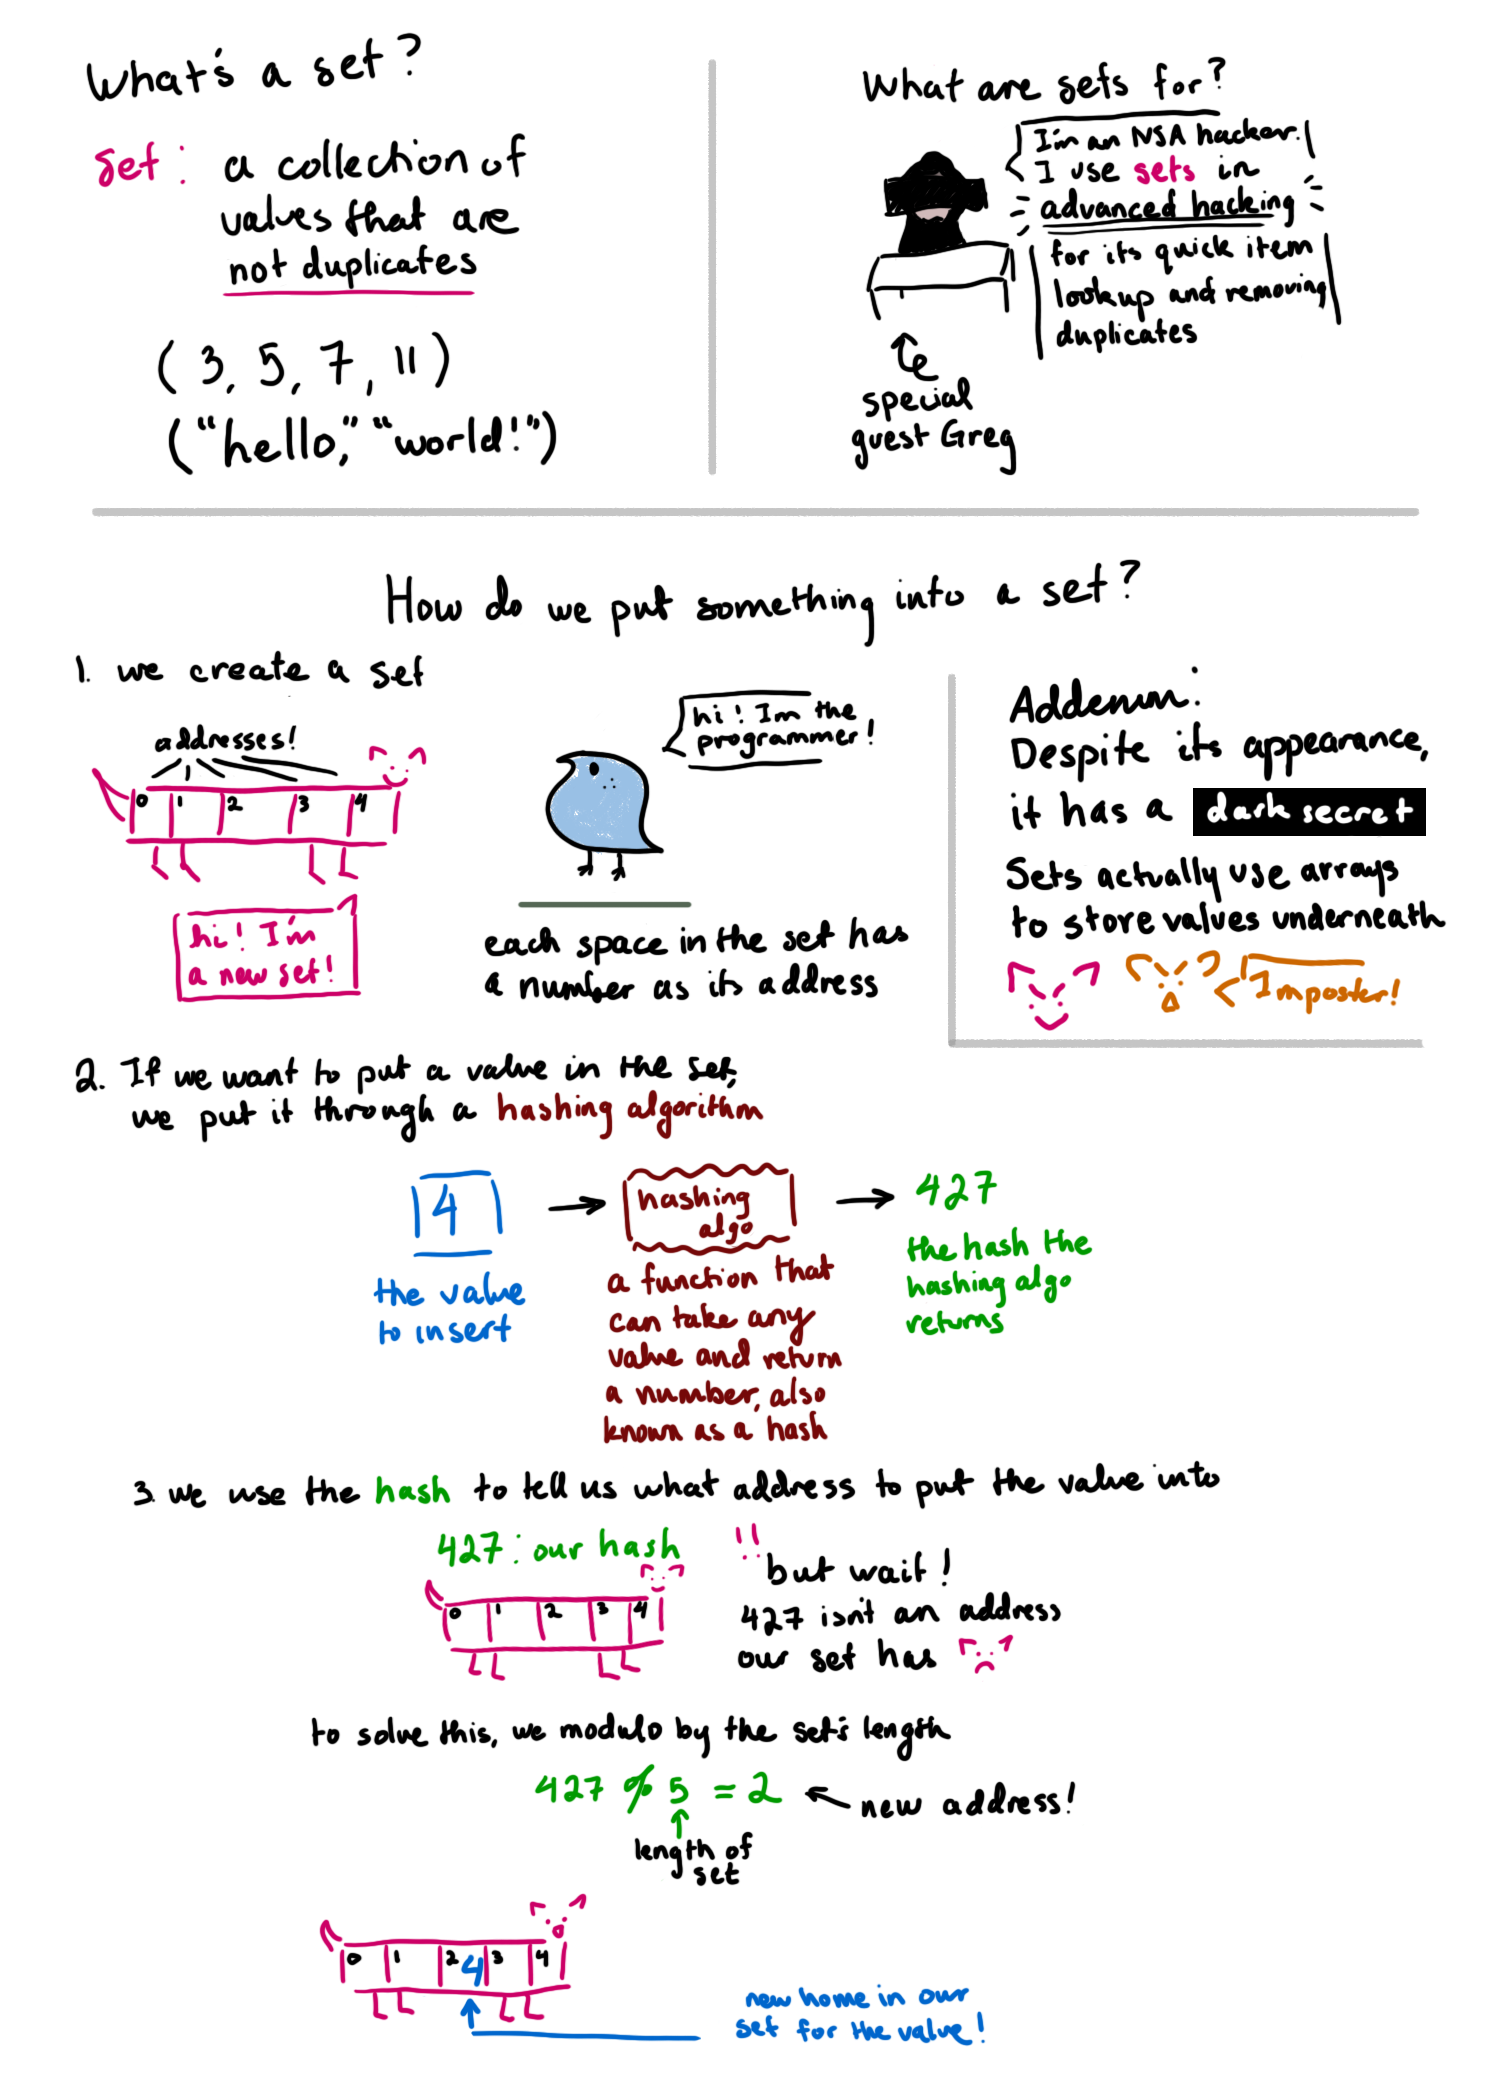
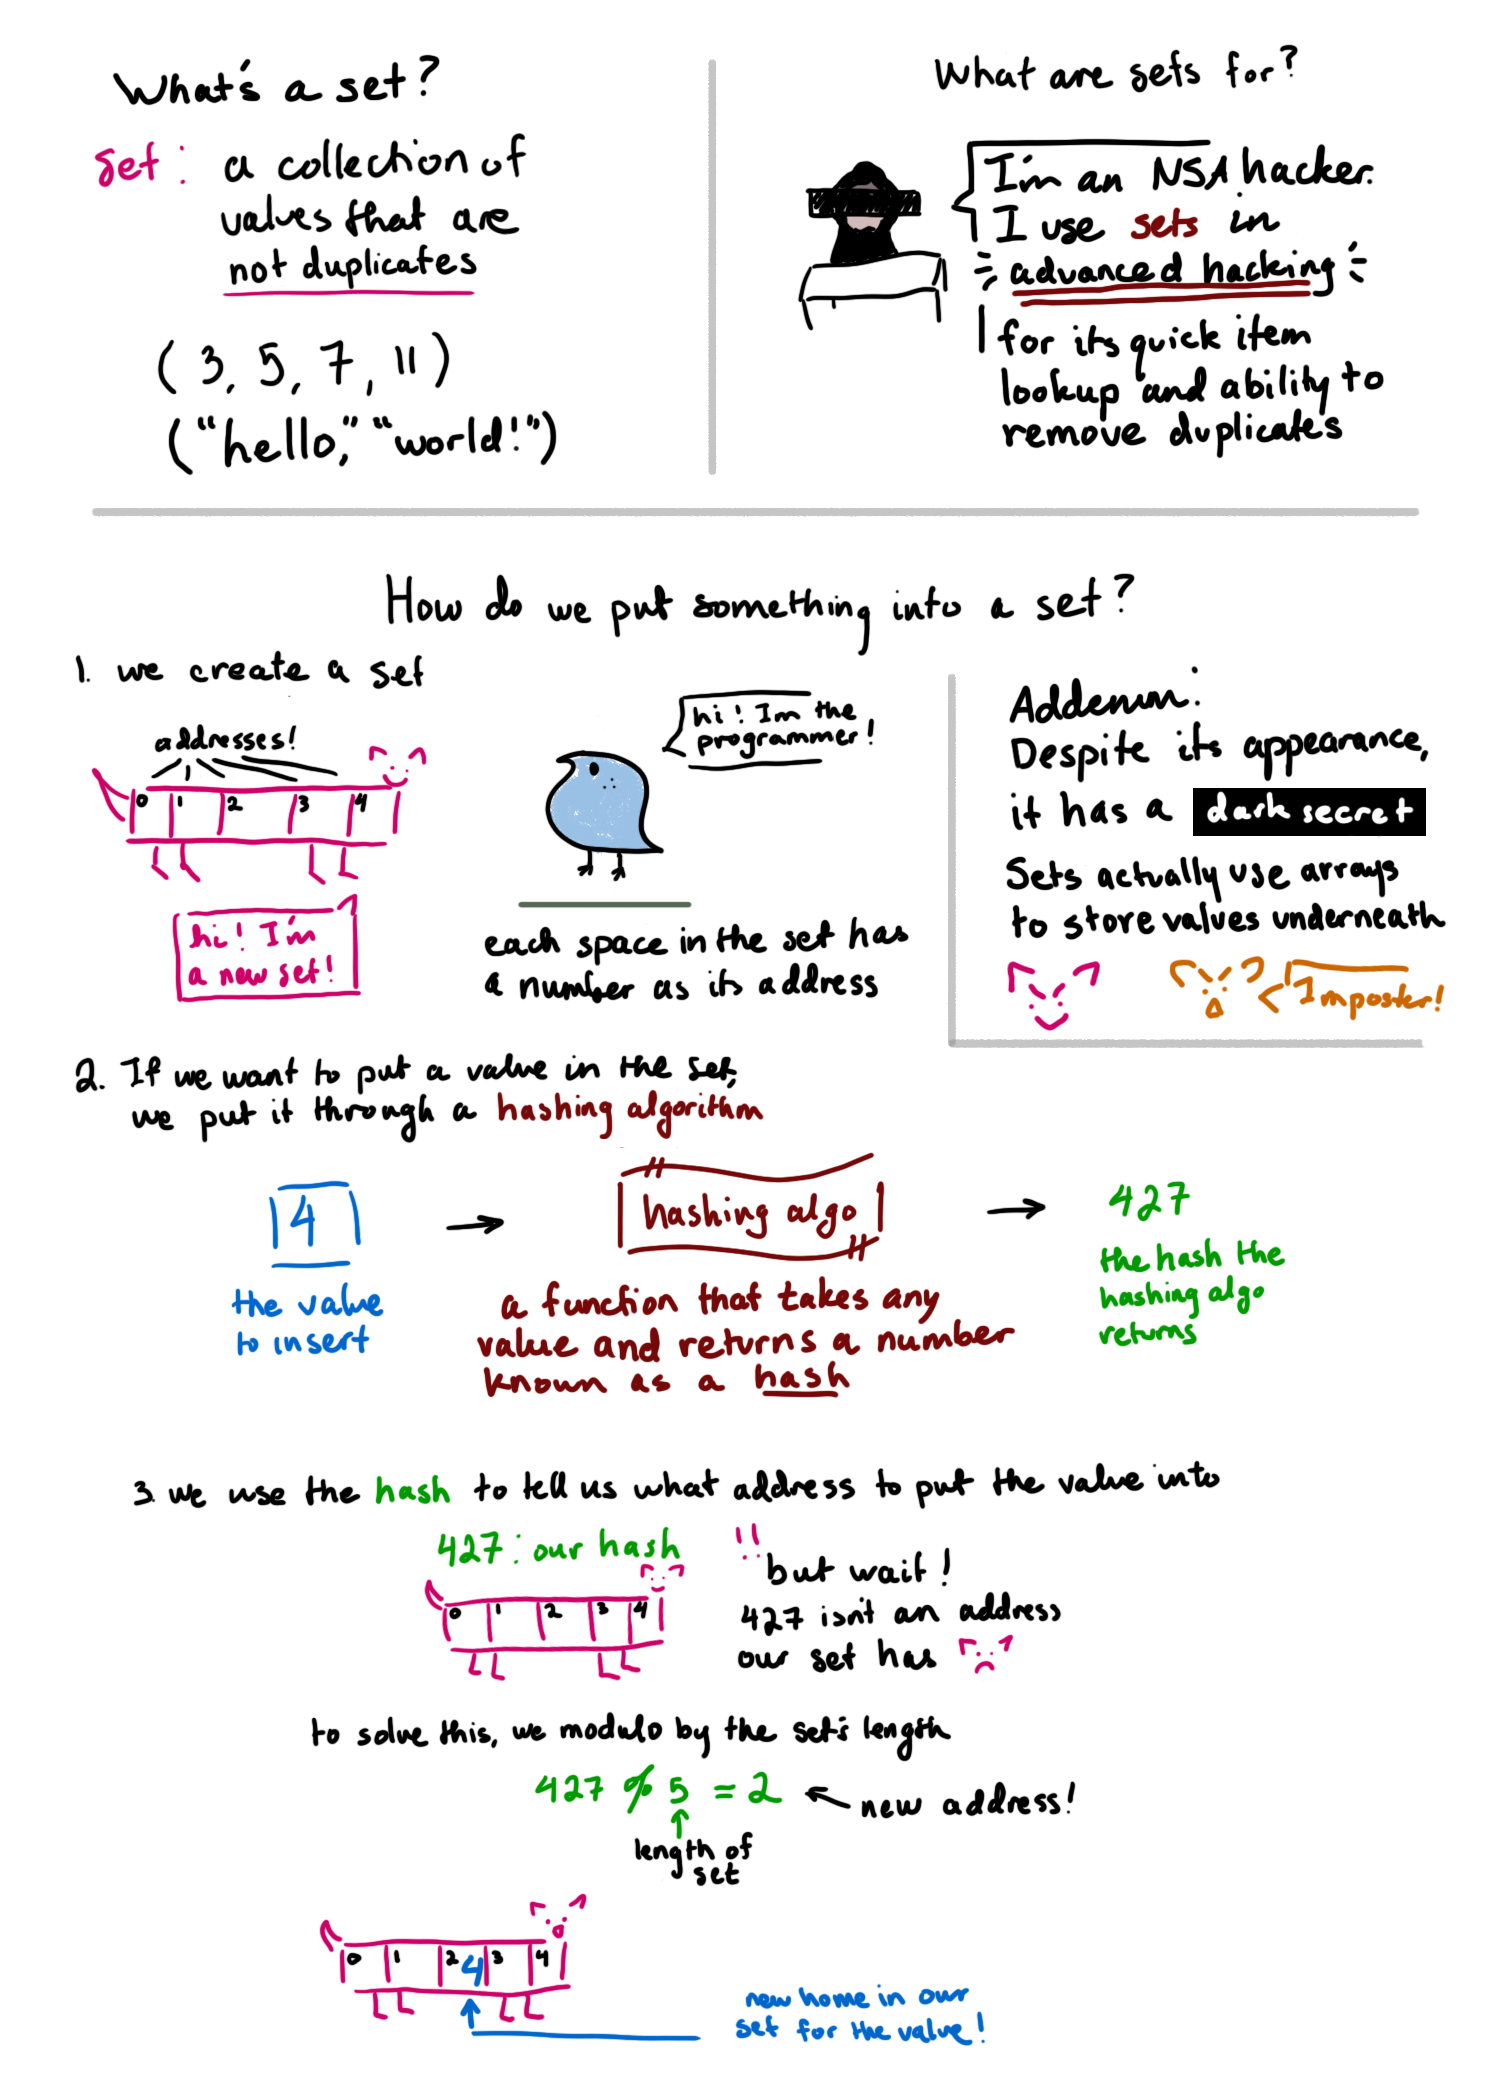
edited set comic to remove typo, fix layout a bit

diff --git a/pelicanconf.py b/pelicanconf.py
@@ -26,8 +26,7 @@ LINKS = (
 
 # Social widget
 SOCIAL = (
-    ("You can add links in your config file", "#"),
-    ("Another social link", "#"),
+    ("Github", "https://github.com/mr4tt"),
 )
 
 DEFAULT_PAGINATION = 10

diff --git a/content/comics/sets1.md b/content/comics/sets1.md
@@ -6,9 +6,15 @@ Slug: sets1
 Authors: Mrat
 Summary: How do sets work? 
 
-# Sets!
-
 We are going to investigate the basics of a set. 
 
-![finally done *setting* up this site](set1p1.png)
-![finally done *setting* up this site](set1p2.png)
+We will cover:
+
+- what is a set
+- how to insert values
+- how to ensure there are no duplicates
+- how to search for values
+- how to delete values
+
+![finally done *setting* up this site](/images/set1p1.png)
+![finally done *setting* up this site](/images/set1p2.png)

diff --git a/content/pages/about_me.md b/content/pages/about_me.md
@@ -3,14 +3,4 @@ Date: 2024-02-07 8:20pm
 Slug: about-me
 Authors: Mrat
 
-## Hi! 
-
-There are two ways to specify the identifier:
-
-    :::python
-    print("The triple-colon syntax will *not* show line numbers.")
-
-To display line numbers, use a path-less shebang instead of colons:
-
-    #!python
-    print("The path-less shebang syntax *will* show line numbers.")
+Hello! Welcome to csmics. 
